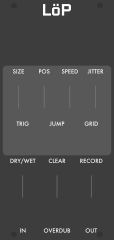
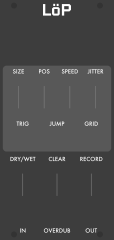
Löp: raise zone bottom 2mm, Row 3 up 1mm into the Row 3–audio gap

Changed region(s): [[0.0263, 0.6125, 0.9737, 0.7]]

diff --git a/src/loooop/Lop.cpp b/src/loooop/Lop.cpp
@@ -179,12 +179,12 @@ struct LopWidget : ModuleWidget {
         addInput(createInputCentered<PJ301MPort>(mm2px(Vec(23.61, 58.0)), module, Lop::POSITION_CV_INPUT));
         addInput(createInputCentered<PJ301MPort>(mm2px(Vec(37.35, 58.0)), module, Lop::SPEED_CV_INPUT));
         addInput(createInputCentered<PJ301MPort>(mm2px(Vec(51.09, 58.0)), module, Lop::JITTER_CV_INPUT));
-        addParam(createParamCentered<RoundBlackKnob>(mm2px(Vec(12.16, 93.95)), module, Lop::DRYWET_PARAM));
-        addParam(createParamCentered<VCVButton>(mm2px(Vec(30.48, 93.95)), module, Lop::CLEAR_PARAM));
-        addParam(createLightParamCentered<VCVLightButton<MediumSimpleLight<RedLight>>>(mm2px(Vec(48.8, 93.95)), module, Lop::RECORD_PARAM, Lop::RECORD_LIGHT));
-        addInput(createInputCentered<PJ301MPort>(mm2px(Vec(12.16, 105.9)), module, Lop::DRYWET_CV_INPUT));
-        addInput(createInputCentered<PJ301MPort>(mm2px(Vec(30.48, 105.9)), module, Lop::CLEAR_TRIG_INPUT));
-        addInput(createInputCentered<PJ301MPort>(mm2px(Vec(48.8, 105.9)), module, Lop::RECORD_TRIG_INPUT));
+        addParam(createParamCentered<RoundBlackKnob>(mm2px(Vec(12.16, 92.95)), module, Lop::DRYWET_PARAM));
+        addParam(createParamCentered<VCVButton>(mm2px(Vec(30.48, 92.95)), module, Lop::CLEAR_PARAM));
+        addParam(createLightParamCentered<VCVLightButton<MediumSimpleLight<RedLight>>>(mm2px(Vec(48.8, 92.95)), module, Lop::RECORD_PARAM, Lop::RECORD_LIGHT));
+        addInput(createInputCentered<PJ301MPort>(mm2px(Vec(12.16, 104.9)), module, Lop::DRYWET_CV_INPUT));
+        addInput(createInputCentered<PJ301MPort>(mm2px(Vec(30.48, 104.9)), module, Lop::CLEAR_TRIG_INPUT));
+        addInput(createInputCentered<PJ301MPort>(mm2px(Vec(48.8, 104.9)), module, Lop::RECORD_TRIG_INPUT));
         addInput(createInputCentered<PJ301MPort>(mm2px(Vec(12.16, 74.15)), module, Lop::TRIG_INPUT));
         addInput(createInputCentered<PJ301MPort>(mm2px(Vec(30.48, 74.15)), module, Lop::JUMP_INPUT));
         addParam(createLightParamCentered<OverdubButton>(mm2px(Vec(30.48, 116.05)), module, Lop::OVERDUB_PARAM, Lop::OVERDUB_R_LIGHT));
